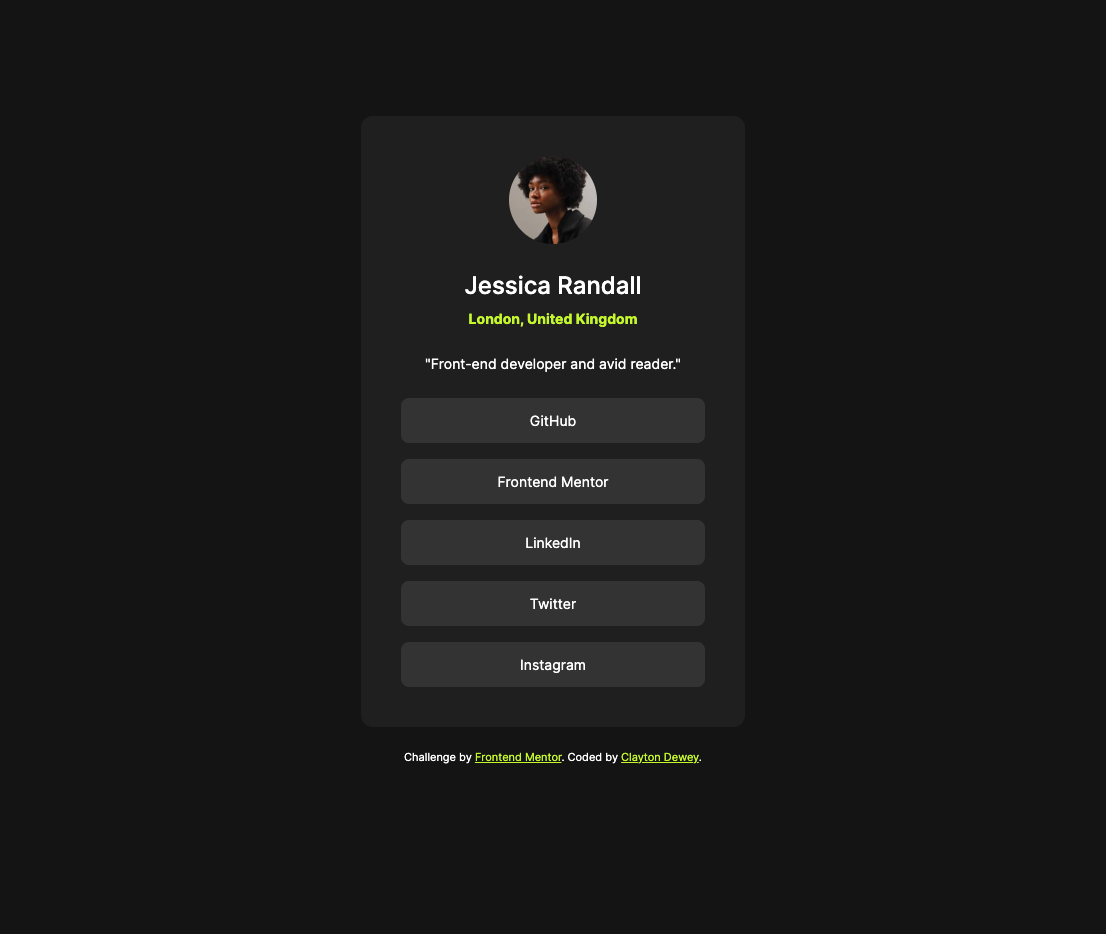
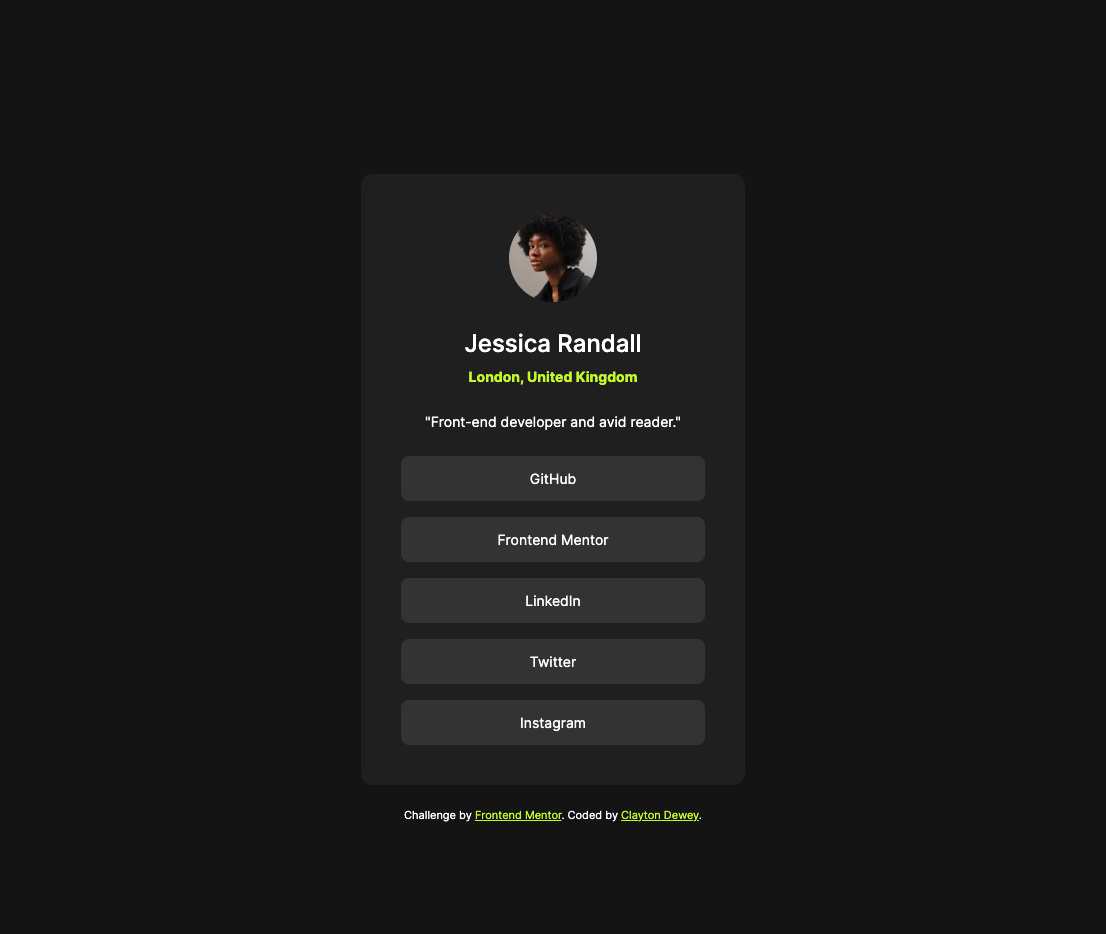
fix: Adjust  .card top margin for desktop

diff --git a/dist/style.css b/dist/style.css
@@ -1,2 +1,2 @@
-/*! normalize.css v8.0.1 | MIT License | github.com/necolas/normalize.css */html{-webkit-text-size-adjust:100%;line-height:1.15}body{margin:0}main{display:block}h1{font-size:2em;margin:.67em 0}hr{box-sizing:content-box;height:0;overflow:visible}pre{font-family:monospace,monospace;font-size:1em}a{background-color:transparent}abbr[title]{border-bottom:none;text-decoration:underline;-webkit-text-decoration:underline dotted;text-decoration:underline dotted}b,strong{font-weight:bolder}code,kbd,samp{font-family:monospace,monospace;font-size:1em}small{font-size:80%}sub,sup{font-size:75%;line-height:0;position:relative;vertical-align:baseline}sub{bottom:-.25em}sup{top:-.5em}img{border-style:none}button,input,optgroup,select,textarea{font-family:inherit;font-size:100%;line-height:1.15;margin:0}button,input{overflow:visible}button,select{text-transform:none}[type=button],[type=reset],[type=submit],button{-webkit-appearance:button}[type=button]::-moz-focus-inner,[type=reset]::-moz-focus-inner,[type=submit]::-moz-focus-inner,button::-moz-focus-inner{border-style:none;padding:0}[type=button]:-moz-focusring,[type=reset]:-moz-focusring,[type=submit]:-moz-focusring,button:-moz-focusring{outline:1px dotted ButtonText}fieldset{padding:.35em .75em .625em}legend{box-sizing:border-box;color:inherit;display:table;max-width:100%;padding:0;white-space:normal}progress{vertical-align:baseline}textarea{overflow:auto}[type=checkbox],[type=radio]{box-sizing:border-box;padding:0}[type=number]::-webkit-inner-spin-button,[type=number]::-webkit-outer-spin-button{height:auto}[type=search]{-webkit-appearance:textfield;outline-offset:-2px}[type=search]::-webkit-search-decoration{-webkit-appearance:none}::-webkit-file-upload-button{-webkit-appearance:button;font:inherit}details{display:block}summary{display:list-item}[hidden],template{display:none}:root{--clr-primary:#c5f82a;--clr-grey:#333;--clr-dark-grey:#1f1f1f;--clr-off-black:#141414;--clr-black:#000;--clr-white:#fff;--ff-sans:"Inter",Arial,Helvetica,sans-serif;--ff-mono:"Source Code Pro",monospace;--ff-serif:Cambria,Cochin,Georgia,serif;--fs-large:1.5rem;--fs-reg:0.875rem;--fs-small:0.6875rem;--radius:0.75rem;--gap:1.5rem;--columns:2;--transition:all 0.25s ease-in-out}*,:after,:before{box-sizing:inherit;margin:0;padding:0}body,html{font-style:normal;font-weight:400}body{font-family:var(--ff-sans);font-size:var(--fs-reg);line-height:150%;position:relative}body,html{background:var(--clr-off-black);box-sizing:border-box;color:var(--clr-white);margin:0 auto;width:100%}.visually-hidden{clip:rect(0 0 0 0);-webkit-clip-path:inset(50%);clip-path:inset(50%);height:1px;overflow:hidden;position:absolute;white-space:nowrap;width:1px}h1,h2{font-style:normal;line-height:150%;margin:0}h1{font-size:var(--fs-large);font-weight:500;margin-bottom:.25rem}h2{color:var(--clr-primary);font-size:var(--fs-reg);font-weight:700;margin-bottom:1.5rem}.card{align-items:center;background:var(--clr-dark-grey);border-radius:var(--radius);display:flex;flex-direction:column;gap:var(--gap);margin:7.25rem auto 1.25rem;max-width:23.25rem;padding:1.5rem;width:100%}.card__header{text-align:center}.card__header img{border-radius:100%;display:block;height:5.5rem;margin:auto auto 1.5rem;width:5.5rem}.card__body{width:100%}.card ul{align-items:center;display:flex;flex-direction:column;gap:1rem;justify-content:center;list-style:none;text-align:center}.card ul li{display:block;width:100%}.card ul li a{background-color:var(--clr-grey);border-radius:.5rem;color:var(--crl-white);display:block;padding:.75rem;text-decoration:none;transition:var(--transition)}.card ul li a:hover{background-color:var(--clr-primary);color:var(--clr-dark-grey)}@media (min-width:25.75em){.card{max-width:24rem;padding:2.5rem}}.attribution{font-size:var(--fs-small);text-align:center}.attribution a{color:var(--clr-primary)}.container{margin:0 auto;padding:0 1.25rem;width:100%}@media (min-width:25.75em){.container{max-width:69.375rem}}
+/*! normalize.css v8.0.1 | MIT License | github.com/necolas/normalize.css */html{-webkit-text-size-adjust:100%;line-height:1.15}body{margin:0}main{display:block}h1{font-size:2em;margin:.67em 0}hr{box-sizing:content-box;height:0;overflow:visible}pre{font-family:monospace,monospace;font-size:1em}a{background-color:transparent}abbr[title]{border-bottom:none;text-decoration:underline;-webkit-text-decoration:underline dotted;text-decoration:underline dotted}b,strong{font-weight:bolder}code,kbd,samp{font-family:monospace,monospace;font-size:1em}small{font-size:80%}sub,sup{font-size:75%;line-height:0;position:relative;vertical-align:baseline}sub{bottom:-.25em}sup{top:-.5em}img{border-style:none}button,input,optgroup,select,textarea{font-family:inherit;font-size:100%;line-height:1.15;margin:0}button,input{overflow:visible}button,select{text-transform:none}[type=button],[type=reset],[type=submit],button{-webkit-appearance:button}[type=button]::-moz-focus-inner,[type=reset]::-moz-focus-inner,[type=submit]::-moz-focus-inner,button::-moz-focus-inner{border-style:none;padding:0}[type=button]:-moz-focusring,[type=reset]:-moz-focusring,[type=submit]:-moz-focusring,button:-moz-focusring{outline:1px dotted ButtonText}fieldset{padding:.35em .75em .625em}legend{box-sizing:border-box;color:inherit;display:table;max-width:100%;padding:0;white-space:normal}progress{vertical-align:baseline}textarea{overflow:auto}[type=checkbox],[type=radio]{box-sizing:border-box;padding:0}[type=number]::-webkit-inner-spin-button,[type=number]::-webkit-outer-spin-button{height:auto}[type=search]{-webkit-appearance:textfield;outline-offset:-2px}[type=search]::-webkit-search-decoration{-webkit-appearance:none}::-webkit-file-upload-button{-webkit-appearance:button;font:inherit}details{display:block}summary{display:list-item}[hidden],template{display:none}:root{--clr-primary:#c5f82a;--clr-grey:#333;--clr-dark-grey:#1f1f1f;--clr-off-black:#141414;--clr-black:#000;--clr-white:#fff;--ff-sans:"Inter",Arial,Helvetica,sans-serif;--ff-mono:"Source Code Pro",monospace;--ff-serif:Cambria,Cochin,Georgia,serif;--fs-large:1.5rem;--fs-reg:0.875rem;--fs-small:0.6875rem;--radius:0.75rem;--gap:1.5rem;--columns:2;--transition:all 0.25s ease-in-out}*,:after,:before{box-sizing:inherit;margin:0;padding:0}body,html{font-style:normal;font-weight:400}body{font-family:var(--ff-sans);font-size:var(--fs-reg);line-height:150%;position:relative}body,html{background:var(--clr-off-black);box-sizing:border-box;color:var(--clr-white);margin:0 auto;width:100%}.visually-hidden{clip:rect(0 0 0 0);-webkit-clip-path:inset(50%);clip-path:inset(50%);height:1px;overflow:hidden;position:absolute;white-space:nowrap;width:1px}h1,h2{font-style:normal;line-height:150%;margin:0}h1{font-size:var(--fs-large);font-weight:500;margin-bottom:.25rem}h2{color:var(--clr-primary);font-size:var(--fs-reg);font-weight:700;margin-bottom:1.5rem}.card{align-items:center;background:var(--clr-dark-grey);border-radius:var(--radius);display:flex;flex-direction:column;gap:var(--gap);margin:7.25rem auto 1.25rem;max-width:23.25rem;padding:1.5rem;width:100%}.card__header{text-align:center}.card__header img{border-radius:100%;display:block;height:5.5rem;margin:auto auto 1.5rem;width:5.5rem}.card__body{width:100%}.card ul{align-items:center;display:flex;flex-direction:column;gap:1rem;justify-content:center;list-style:none;text-align:center}.card ul li{display:block;width:100%}.card ul li a{background-color:var(--clr-grey);border-radius:.5rem;color:var(--crl-white);display:block;padding:.75rem;text-decoration:none;transition:var(--transition)}.card ul li a:hover{background-color:var(--clr-primary);color:var(--clr-dark-grey)}@media (min-width:25.75em){.card{margin-top:10.875rem;max-width:24rem;padding:2.5rem}}.attribution{font-size:var(--fs-small);text-align:center}.attribution a{color:var(--clr-primary)}.container{margin:0 auto;padding:0 1.25rem;width:100%}@media (min-width:25.75em){.container{max-width:69.375rem}}
 /*# sourceMappingURL=style.css.map */

diff --git a/app/scss/components/card.scss b/app/scss/components/card.scss
@@ -60,6 +60,7 @@
 
   @include breakpoint(medium) {
     max-width: rem(384);
+    margin-top: rem(174);
     padding: rem(40);
   }
 }
